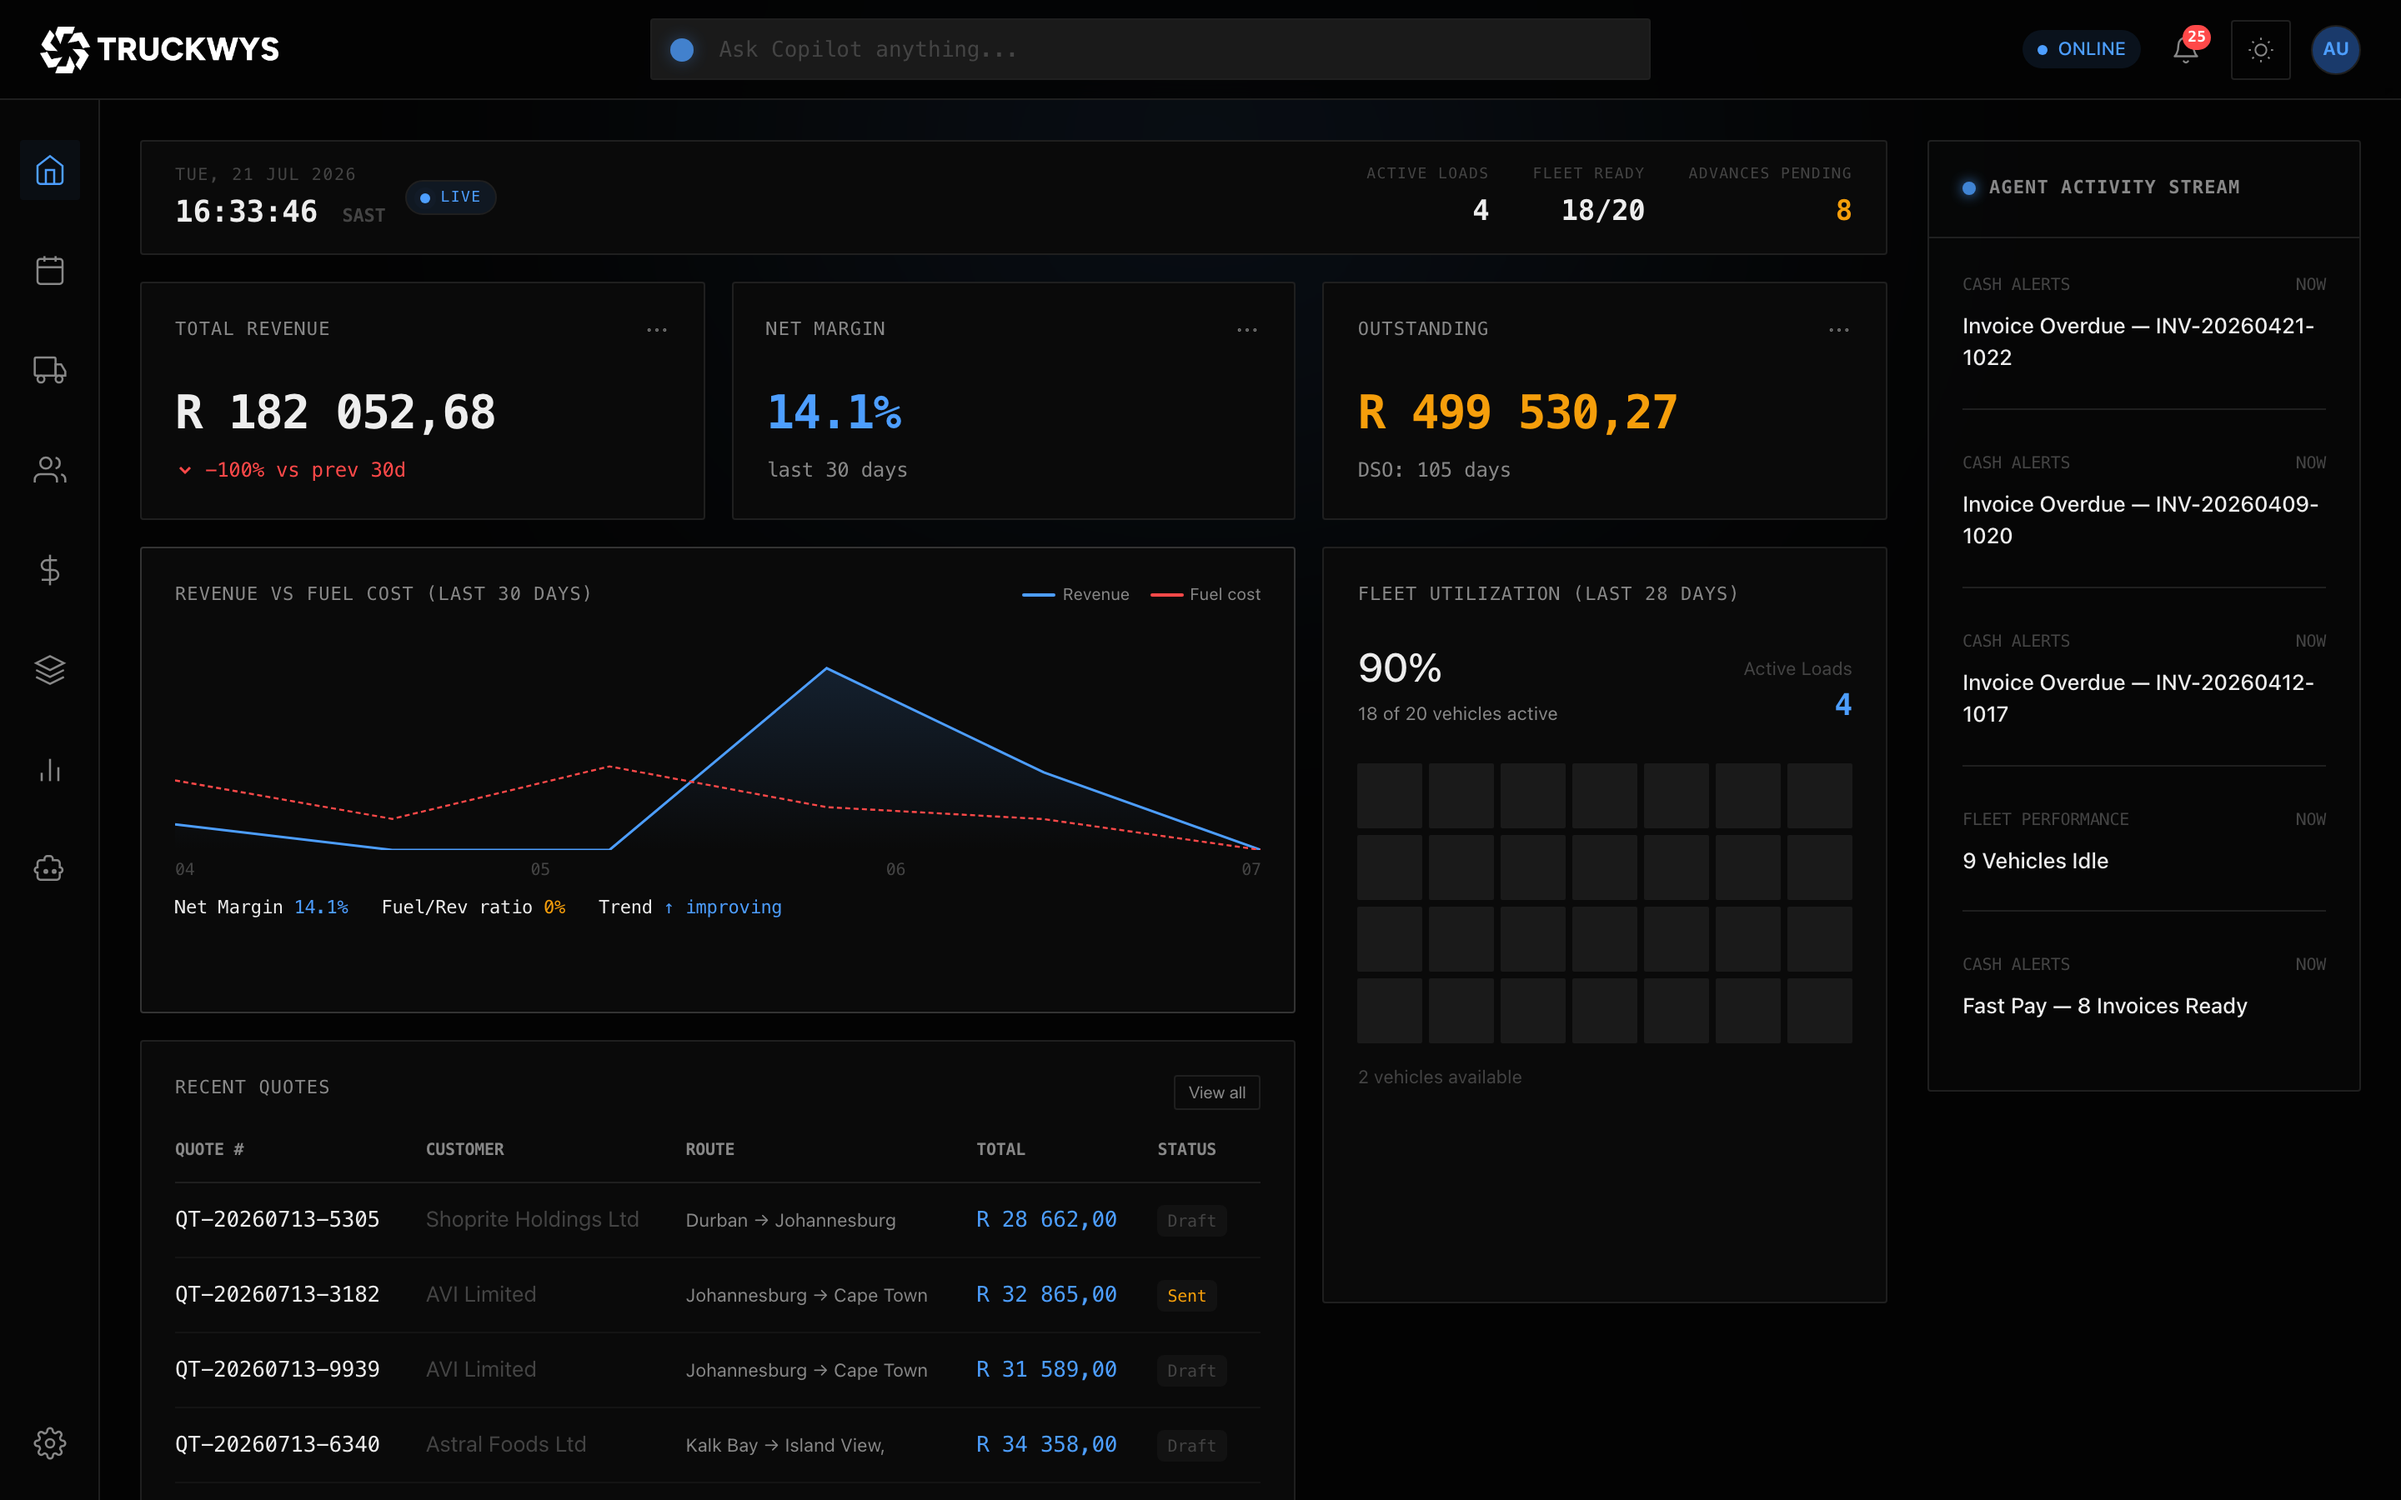
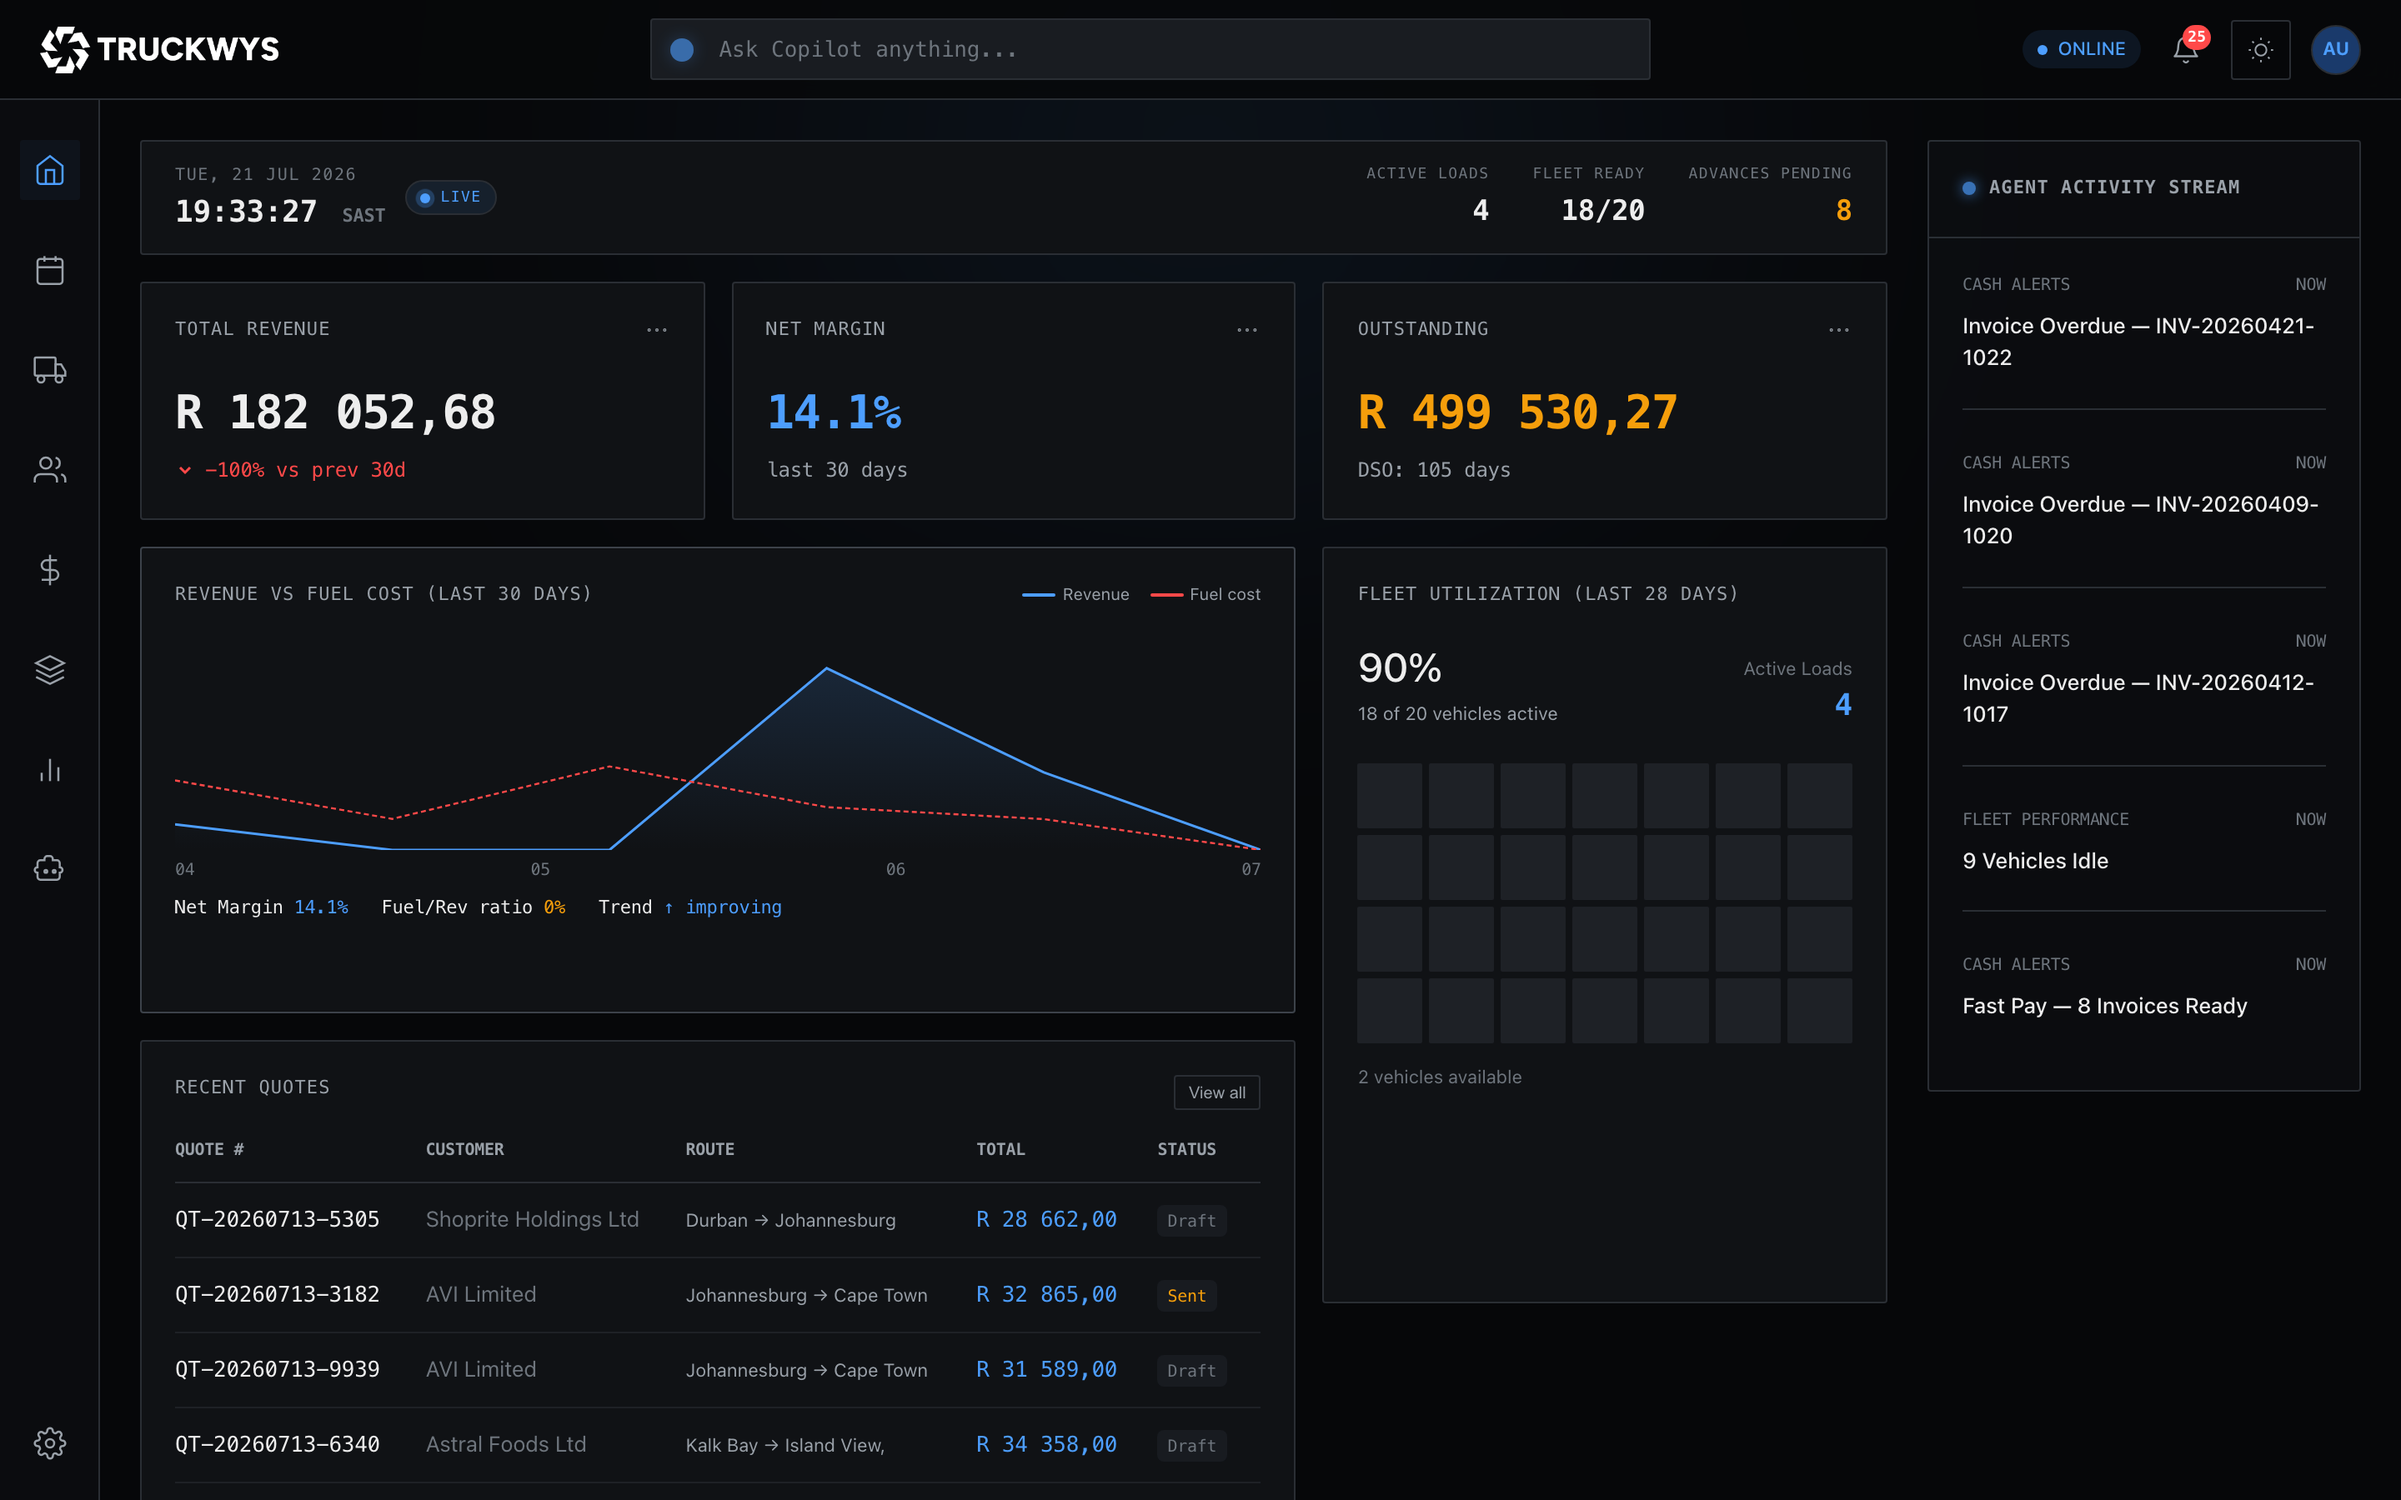
polish: owner feedback round — hero, close-ups, AI blues, heading, rhythm
- Home hero image is now the command-centre overview dashboard (recaptured
  with the fixed dark-mode contrast): live revenue, margin, fleet grid and
  the agent stream. The quote page no longer repeats across hero and
  Step 01.
- Close-up treatment (the Rally/Shopify pattern) for sections where full
  screenshots rendered too small: Step 01 zooms into the cost breakdown,
  Step 02 uses the real invoice-rows fragment, Step 04 and the product
  page's invoicing/insights/capital blocks use oversized zoom crops that
  bleed inside the frame instead of shrinking whole pages.
- AI page gets its own colour identity: a stronger electric-blue hero
  wash and blue-tinted alternating sections, distinct from every other
  page.
- Granular section heading renamed to "Everything you get".
- Rhythm audit across all ten pages: section paddings normalised (blogs
  grid and product integrations moved onto the shared scale); container
  width confirmed max-w-6xl everywhere.

Verified: build clean, home and AI re-captured full-page.

diff --git a/app/product/page.tsx b/app/product/page.tsx
@@ -175,10 +175,11 @@ export default function ProductPage() {
             <div className="shot-frame">
               <Image
                 src="/images/product/invoices-light.png"
-                alt="The TruckWys invoice list with statuses, overdue flags and collection follow-ups"
+                alt="Close-up of the TruckWys invoice list with statuses, overdue flags and collection follow-ups"
                 width={1440}
                 height={834}
-                className="w-full"
+                className="w-[150%] max-w-none"
+                style={{ marginLeft: '-6%', marginTop: '-18%' }}
               />
             </div>
           </div>
@@ -193,10 +194,10 @@ export default function ProductPage() {
               <div className="shot-frame">
                 <Image
                   src="/images/product/insights-light.png"
-                  alt="TruckWys insights showing margin per route, cost per kilometre and fleet utilisation"
+                  alt="Close-up of the TruckWys daily briefing and margin insights"
                   width={1440}
                   height={834}
-                  className="w-full"
+                  className="w-[150%] max-w-none"
                 />
               </div>
             </div>
@@ -258,10 +259,10 @@ export default function ProductPage() {
             <div className="shot-frame">
               <Image
                 src="/images/product/capital-light.png"
-                alt="The TruckWys capital facility showing available capital against outstanding invoices"
+                alt="Close-up of the TruckWys capital facility with R1,000,000 available"
                 width={1440}
                 height={560}
-                className="w-full"
+                className="w-[135%] max-w-none"
               />
             </div>
           </div>
@@ -270,7 +271,7 @@ export default function ProductPage() {
 
       {/* Integrations */}
       <section className="border-t border-line bg-surface">
-        <div className="mx-auto max-w-6xl px-5 py-16 text-center">
+        <div className="mx-auto max-w-6xl px-5 py-20 text-center">
           <div className="eyebrow eyebrow-accent mb-3">Integrations</div>
           <h2 className="text-[20px] font-semibold text-ink">
             Plays well with your TMS, tracking and books
@@ -294,9 +295,9 @@ export default function ProductPage() {
         <div className="mx-auto max-w-6xl px-5 py-24">
           <div className="mx-auto max-w-2xl text-center">
             <div className="eyebrow eyebrow-accent mb-4">Everything inside</div>
-            <h2 className="text-display text-ink">The granular list, for the detail people</h2>
+            <h2 className="text-display text-ink">Everything you get</h2>
             <p className="mt-4 text-[16px] text-ink-2">
-              Every feature below ships in the R4,500. No add-on tiers, no locked modules.
+              The full list. All of it in the R4,500, no add-on tiers, no locked modules.
             </p>
           </div>
           <div className="mt-14 grid gap-10 sm:grid-cols-2 lg:grid-cols-4">

diff --git a/app/page.tsx b/app/page.tsx
@@ -50,8 +50,8 @@ export default function HomePage() {
         <div className="mx-auto mt-14 max-w-6xl px-5">
           <div className="shot-frame">
             <Image
-              src="/images/product/quote-builder-dark.png"
-              alt="The TruckWys quote builder pricing a Johannesburg to Cape Town load with the route on a map, fuel at the live diesel price, R1,115 of N1 tolls, and a quote total of R31,613"
+              src="/images/product/overview-dark.png"
+              alt="The TruckWys command centre: live revenue, net margin, outstanding invoices, fleet utilisation and the agent activity stream"
               width={1440}
               height={900}
               priority
@@ -118,10 +118,11 @@ export default function HomePage() {
             <div className="shot-frame">
               <Image
                 src="/images/product/quote-builder-light.png"
-                alt="The TruckWys quote builder in light mode with route options, cost breakdown and the AI recommended price"
+                alt="Close-up of the TruckWys cost breakdown: fuel at live diesel, N1 tolls and the quote total"
                 width={1440}
                 height={900}
-                className="w-full"
+                className="w-[165%] max-w-none"
+                style={{ marginLeft: '-63%', marginTop: '-30%' }}
               />
             </div>
           </div>
@@ -135,10 +136,10 @@ export default function HomePage() {
             <div className="order-2 lg:order-1">
               <div className="shot-frame">
                 <Image
-                  src="/images/product/invoices-light.png"
-                  alt="The TruckWys invoice pipeline showing invoices created on delivery with statuses, due dates and overdue flags"
-                  width={1440}
-                  height={834}
+                  src="/images/product/frag-invoice-rows.png"
+                  alt="Real TruckWys invoices with amounts, statuses and overdue flags"
+                  width={1233}
+                  height={250}
                   className="w-full"
                 />
               </div>

diff --git a/app/ai/page.tsx b/app/ai/page.tsx
@@ -104,7 +104,7 @@ export default function AiPage() {
       <script type="application/ld+json" dangerouslySetInnerHTML={jsonLd(aiPageSchema)} />
 
       {/* Hero */}
-      <section className="hero-wash">
+      <section className="hero-wash-ai">
         <div className="mx-auto max-w-6xl px-5 pb-16 pt-10 text-center md:pt-16">
           <div className="eyebrow eyebrow-accent mb-5">The AI inside</div>
           <h1 className="text-hero mx-auto max-w-3xl text-ink">
@@ -129,7 +129,7 @@ export default function AiPage() {
       {aiFeatures.map((f, i) => (
         <section
           key={f.eyebrow}
-          className={i % 2 === 0 ? 'border-t border-line bg-surface' : 'bg-page'}
+          className={i % 2 === 0 ? 'border-t border-line bg-surface' : 'bg-tint'}
         >
           <div className="mx-auto max-w-6xl px-5 py-20">
             {f.img ? (

diff --git a/app/globals.css b/app/globals.css
@@ -232,6 +232,18 @@ body {
       linear-gradient(to bottom, #f5f8ff, var(--surface) 55%);
   }
 
+  /* AI page: a stronger electric-blue hero wash, distinct from the standard hero */
+  .hero-wash-ai {
+    background:
+      radial-gradient(50% 55% at 50% 0%, rgba(37, 99, 235, 0.22), transparent 75%),
+      radial-gradient(30% 40% at 82% 12%, rgba(77, 158, 255, 0.14), transparent 70%),
+      linear-gradient(to bottom, #eaf1ff, var(--surface) 62%);
+  }
+  /* Soft blue section tint used on the AI page for alternation */
+  .bg-tint {
+    background: #f0f5ff;
+  }
+
   /* Distinct deep-navy footer: darker than any section, blue-tinted, not the page grey */
   .footer-dark {
     --surface: #0d1526;

diff --git a/app/blogs/page.tsx b/app/blogs/page.tsx
@@ -48,7 +48,7 @@ export default function BlogIndexPage() {
       </section>
 
       <section className="border-t border-line bg-page">
-        <div className="mx-auto max-w-6xl px-5 py-16">
+        <div className="mx-auto max-w-6xl px-5 py-20">
           <div className="grid gap-6 md:grid-cols-2">
             {posts.map((post) => (
               <Link
